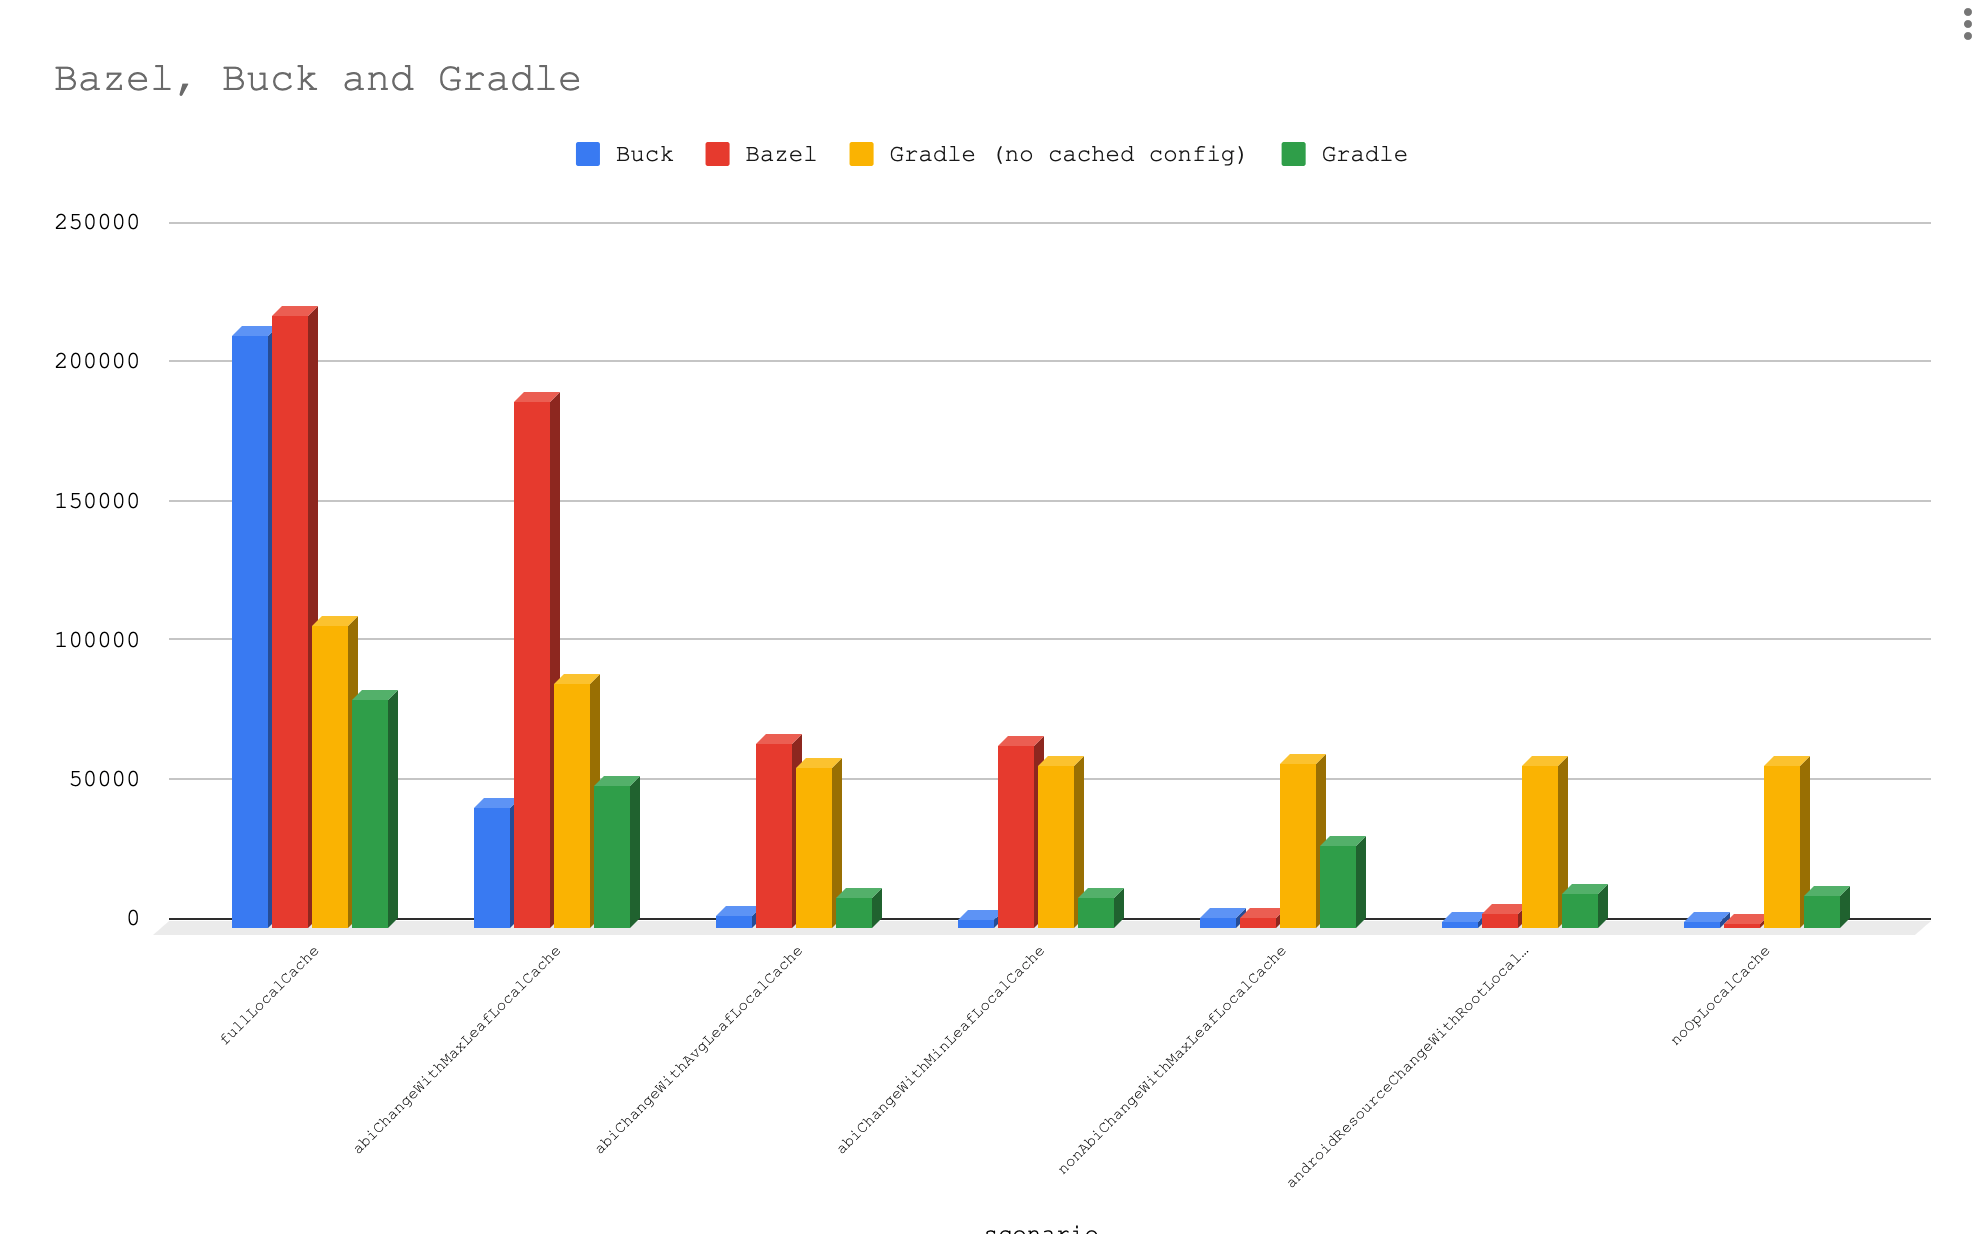
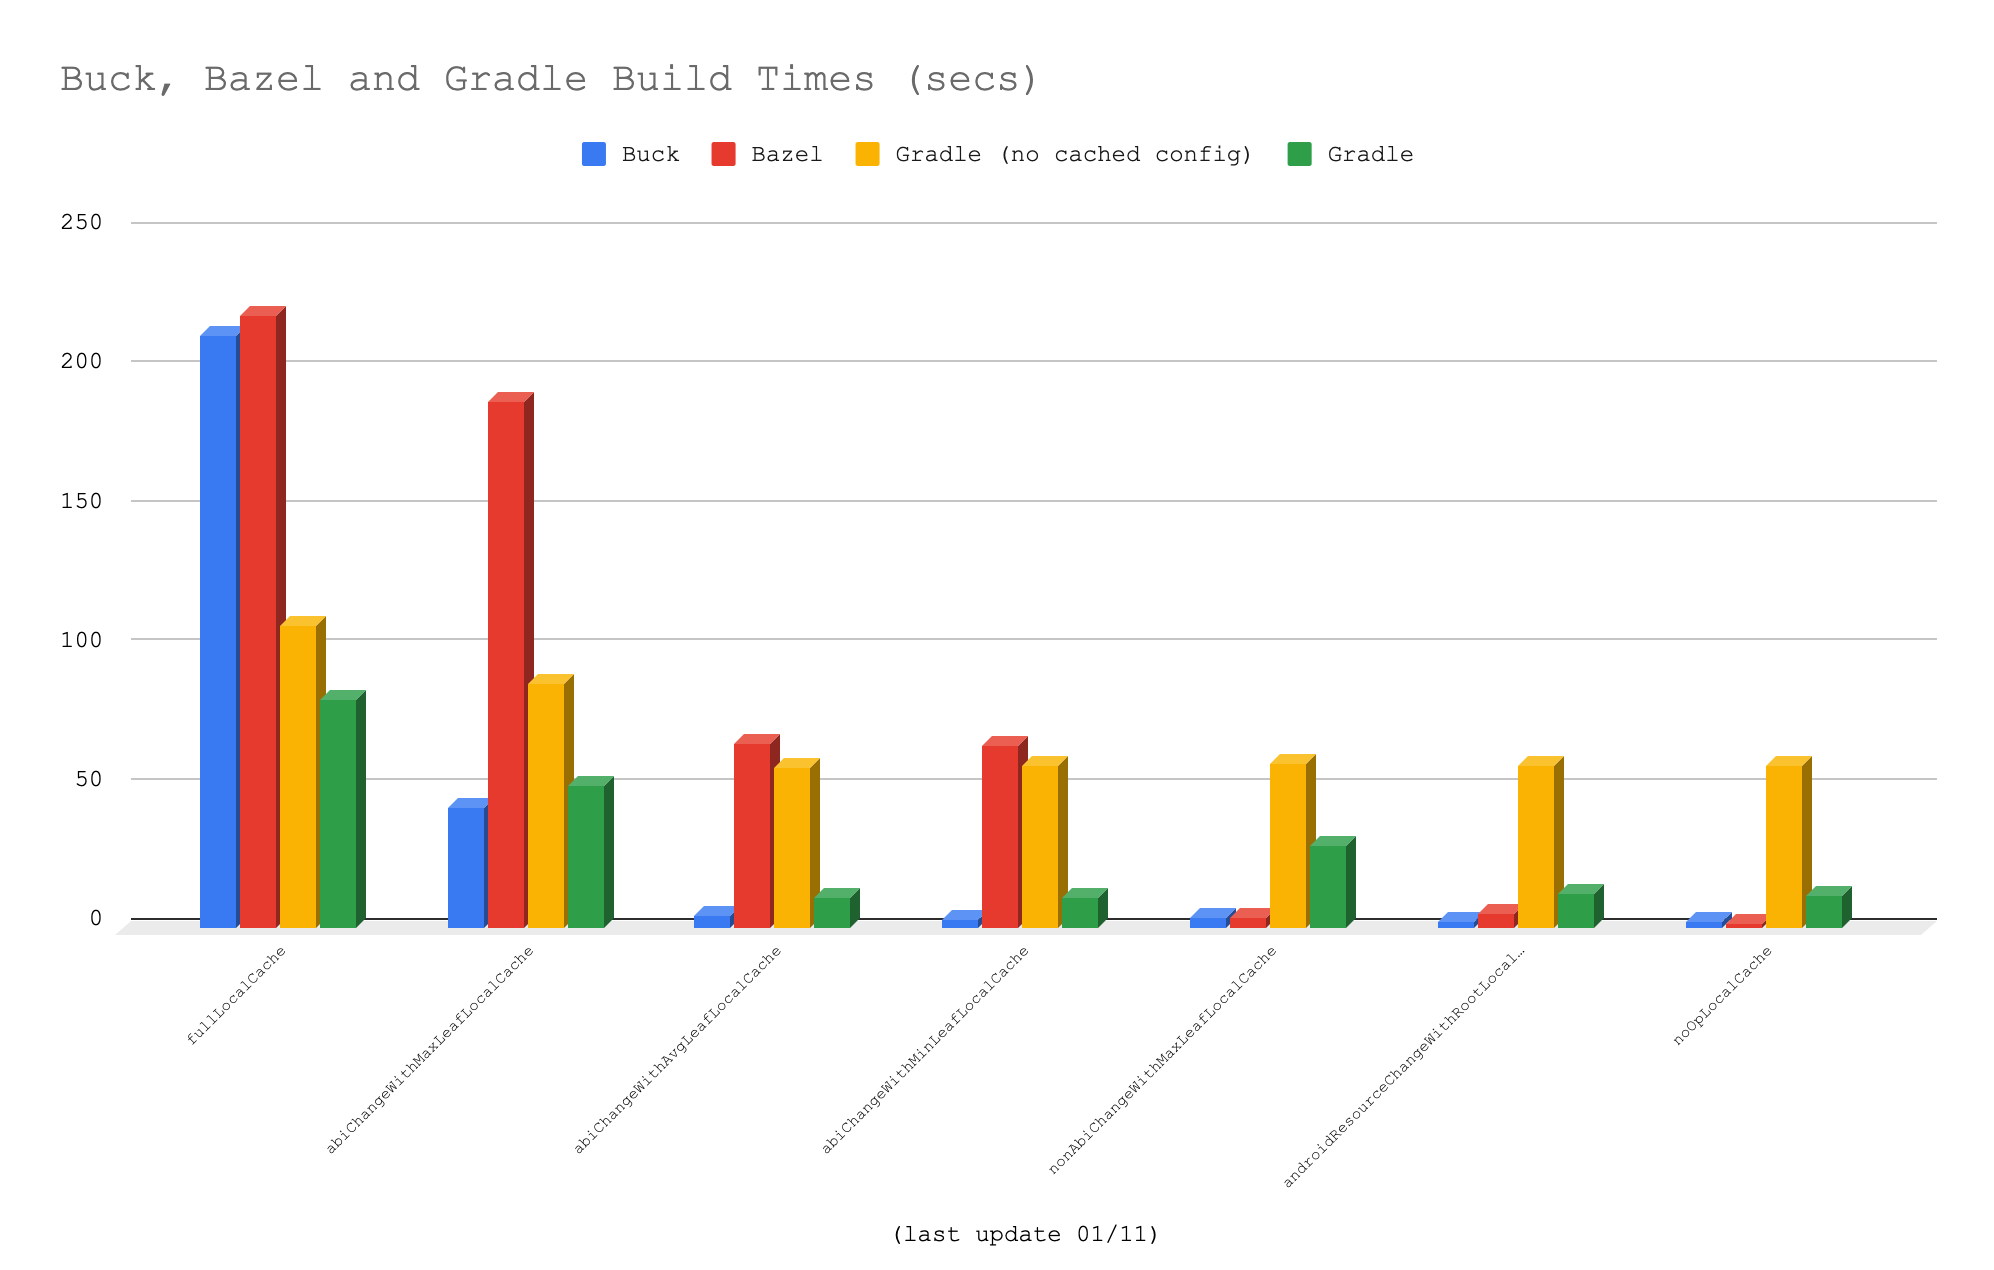
Update README file and benchmark screenshot

diff --git a/README.md b/README.md
@@ -60,11 +60,18 @@ Benchmark scenario are as follow :
 - androidResourceChangeWithRootLocalCache : incremental build with resources changes to root module
 - noOpLocalCache : no-op build
 
-### Current results
+### Benchmark results
+
+#### Conditions
 
 - Bazel : 3.7.0, persistent workers, sandboxing disabled, JAVA header generation disabled
-- Gradle : 6.7, file watcher and configuration cache enabled
+- Gradle : 6.8, file watcher and configuration cache enabled
 - Buck : latest version (as specified by OkBuck)
+- Java : Java 8 compiler is used (pulled from JAVA_HOME env variable)
+- Host machine : benchmark is ran on powerful linux server (**). Slower build times are expected on Macbook Pros, for instance.
+- Last run : 01/11/2021 (code changes made after that are not reflected yet in result below)
+
+#### Current results
 
 ![apps_presidio_helix_app results](/output/mobile_app1.png)
 
@@ -85,3 +92,11 @@ the License.
 ```
 
 (*) The generated code is not representative of Uber's existing production mobile apps.
+
+(**) Architecture:       x86_64
+CPU op-mode(s):     32-bit, 64-bit
+CPU(s):             96
+Thread(s) per core: 2
+Core(s) per socket: 24
+Model name:         Intel(R) Xeon(R) CPU @ 2.00GHz
+RAM:                396gb
